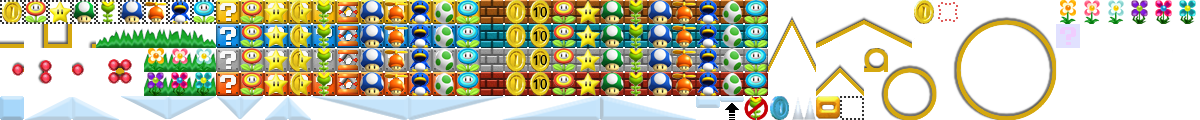
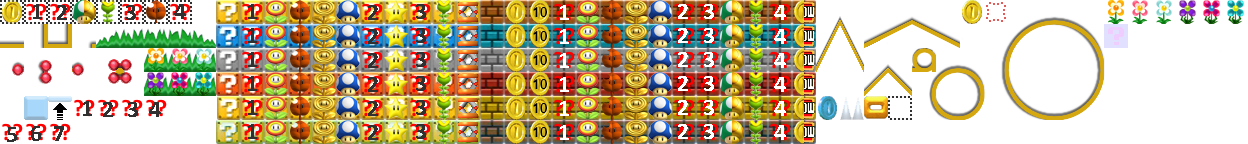
Overrides, Bug Fixes and Entrance Types
Fixed a paths-related bug.

Added proper overrides. There are still a lot of unknowns and there may
be some inaccuracies - let me know if you find anything!

As requested by Hiccup, entrances now support any type values you put in
entrancetypes.txt . They also now display the entrance type value in
Reggie (this may be removed later).

diff --git a/reggie.py b/reggie.py
@@ -891,8 +891,12 @@ def LoadEntranceNames(reload_=False):
         newNames = {}
         for line in getit.readlines(): newNames[int(line.split(':')[0])] = line.split(':')[1].replace('\n', '')
         for idx in newNames: NameList[idx] = newNames[idx]
+
     EntranceTypeNames = []
-    for idx in range(30): EntranceTypeNames.append(NameList[idx])
+    idx = 0
+    while idx in NameList:
+        EntranceTypeNames.append(trans.string('EntranceDataEditor', 28, '[id]', idx, '[name]', NameList[idx]))
+        idx += 1
 
 
 class ChooseLevelNameDialog(QtWidgets.QDialog):
@@ -2010,7 +2014,7 @@ def UnloadTileset(idx):
     """
     Unload the tileset from a specific slot
     """
-    for i in range(idx*441, idx*441+441):
+    for i in range(idx * 441, idx * 441 + 441):
         Tiles[i] = None
 
     ObjectDefinitions[idx] = None
@@ -2023,74 +2027,80 @@ def ProcessOverrides(idx, name):
     """
 
     try:
-        tsindexes = ['Pa0_jyotyu', 'Pa0_jyotyu_chika', 'Pa0_jyotyu_setsugen', 'Pa0_jyotyu_yougan', 'Pa0_jyotyu_staffRoll']
+        tsindexes = ['J_Kihon', 'J_Chika', 'J_Setsugen', 'J_Yougan', 'J_Gold', 'J_Suichu']
         if name in tsindexes:
-            offset = 1024 + tsindexes.index(name) * 64
+            offset = (441 * 4) + (tsindexes.index(name) * 64)
             # Setsugen/Snow is unused for some reason? but we still override it
-            # StaffRoll is the same as plain Jyotyu, so if it's used, let's be lazy and treat it as the normal one
-            if offset == 1280: offset = 1024
 
             defs = ObjectDefinitions[idx]
             t = Tiles
 
             # Invisible blocks
             # these are all the same so let's just load them from the first row
-            replace = 1024
-            for i in [3,4,5,6,7,8,9,10,13]:
+            replace = 441 * 4
+            for i in [3, 4, 5, 6, 7, 8, 9, 10]:
                 t[i].main = t[replace].main
                 replace += 1
 
             # Question and brick blocks
             # these don't have their own tiles so we have to do them by objects
             replace = offset + 9
-            for i in range(38, 49):
+            for i in range(30, 41):
                 defs[i].rows[0][0] = (0, replace, 0)
                 replace += 1
-            for i in range(26, 38):
+            for i in range(16, 30):
                 defs[i].rows[0][0] = (0, replace, 0)
                 replace += 1
 
             # now the extra stuff (invisible collisions etc)
-            t[1].main = t[1280].main # solid
-            t[2].main = t[1311].main # vine stopper
-            t[11].main = t[1310].main # jumpthrough platform
-            t[12].main = t[1309].main # 16x8 roof platform
+            replace = 441 * 4 + 64 * 4
+            for i in [0, 1, 11, 14, 2, 13, 12]:
+                t[i].main = t[replace].main
+                replace += 1
+            replace = 441 * 4 + 64 * 5
+            for i in [190, 191, 192]:
+                t[i].main = t[replace].main
+                replace += 1
+            # t[1].main = t[1280].main # solid
+            # t[2].main = t[1311].main # vine stopper
+            # t[11].main = t[1310].main # jumpthrough platform
+            # t[12].main = t[1309].main # 16x8 roof platform
 
-            t[16].main = t[1291].main # 1x1 slope going up
-            t[17].main = t[1292].main # 1x1 slope going down
-            t[18].main = t[1281].main # 2x1 slope going up (part 1)
-            t[19].main = t[1282].main # 2x1 slope going up (part 2)
-            t[20].main = t[1283].main # 2x1 slope going down (part 1)
-            t[21].main = t[1284].main # 2x1 slope going down (part 2)
-            t[22].main = t[1301].main # 4x1 slope going up (part 1)
-            t[23].main = t[1302].main # 4x1 slope going up (part 2)
-            t[24].main = t[1303].main # 4x1 slope going up (part 3)
-            t[25].main = t[1304].main # 4x1 slope going up (part 4)
-            t[26].main = t[1305].main # 4x1 slope going down (part 1)
-            t[27].main = t[1306].main # 4x1 slope going down (part 2)
-            t[28].main = t[1307].main # 4x1 slope going down (part 3)
-            t[29].main = t[1308].main # 4x1 slope going down (part 4)
-            t[30].main = t[1062].main # coin
+            # t[16].main = t[1291].main # 1x1 slope going up
+            # t[17].main = t[1292].main # 1x1 slope going down
+            # t[18].main = t[1281].main # 2x1 slope going up (part 1)
+            # t[19].main = t[1282].main # 2x1 slope going up (part 2)
+            # t[20].main = t[1283].main # 2x1 slope going down (part 1)
+            # t[21].main = t[1284].main # 2x1 slope going down (part 2)
+            # t[22].main = t[1301].main # 4x1 slope going up (part 1)
+            # t[23].main = t[1302].main # 4x1 slope going up (part 2)
+            # t[24].main = t[1303].main # 4x1 slope going up (part 3)
+            # t[25].main = t[1304].main # 4x1 slope going up (part 4)
+            # t[26].main = t[1305].main # 4x1 slope going down (part 1)
+            # t[27].main = t[1306].main # 4x1 slope going down (part 2)
+            # t[28].main = t[1307].main # 4x1 slope going down (part 3)
+            # t[29].main = t[1308].main # 4x1 slope going down (part 4)
+            # t[30].main = t[1062].main # coin
 
-            t[32].main = t[1289].main # 1x1 roof going down
-            t[33].main = t[1290].main # 1x1 roof going up
-            t[34].main = t[1285].main # 2x1 roof going down (part 1)
-            t[35].main = t[1286].main # 2x1 roof going down (part 2)
-            t[36].main = t[1287].main # 2x1 roof going up (part 1)
-            t[37].main = t[1288].main # 2x1 roof going up (part 2)
-            t[38].main = t[1293].main # 4x1 roof going down (part 1)
-            t[39].main = t[1294].main # 4x1 roof going down (part 2)
-            t[40].main = t[1295].main # 4x1 roof going down (part 3)
-            t[41].main = t[1296].main # 4x1 roof going down (part 4)
-            t[42].main = t[1297].main # 4x1 roof going up (part 1)
-            t[43].main = t[1298].main # 4x1 roof going up (part 2)
-            t[44].main = t[1299].main # 4x1 roof going up (part 3)
-            t[45].main = t[1300].main # 4x1 roof going up (part 4)
-            t[46].main = t[1312].main # P-switch coins
+            # t[32].main = t[1289].main # 1x1 roof going down
+            # t[33].main = t[1290].main # 1x1 roof going up
+            # t[34].main = t[1285].main # 2x1 roof going down (part 1)
+            # t[35].main = t[1286].main # 2x1 roof going down (part 2)
+            # t[36].main = t[1287].main # 2x1 roof going up (part 1)
+            # t[37].main = t[1288].main # 2x1 roof going up (part 2)
+            # t[38].main = t[1293].main # 4x1 roof going down (part 1)
+            # t[39].main = t[1294].main # 4x1 roof going down (part 2)
+            # t[40].main = t[1295].main # 4x1 roof going down (part 3)
+            # t[41].main = t[1296].main # 4x1 roof going down (part 4)
+            # t[42].main = t[1297].main # 4x1 roof going up (part 1)
+            # t[43].main = t[1298].main # 4x1 roof going up (part 2)
+            # t[44].main = t[1299].main # 4x1 roof going up (part 3)
+            # t[45].main = t[1300].main # 4x1 roof going up (part 4)
+            # t[46].main = t[1312].main # P-switch coins
 
-            t[53].main = t[1314].main # donut lift
-            t[61].main = t[1063].main # multiplayer coin
-            t[63].main = t[1313].main # instant death tile
+            # t[53].main = t[1314].main # donut lift
+            # t[61].main = t[1063].main # multiplayer coin
+            # t[63].main = t[1313].main # instant death tile
 
         elif name == 'Pa1_nohara' or name == 'Pa1_nohara2' or name == 'Pa1_daishizen':
             # flowers
@@ -2257,9 +2267,9 @@ def LoadOverrides():
     Load overrides
     """
     global Overrides
-    Overrides = [None]*320
 
     OverrideBitmap = QtGui.QPixmap('reggiedata/overrides.png')
+    Overrides = [None]*384
     idx = 0
     xcount = OverrideBitmap.width() // 24
     ycount = OverrideBitmap.height() // 24
@@ -3348,11 +3358,11 @@ class Area_NSMB2(AbstractParsedArea):
         nodecount = 0
         for path in self.pathdata:
             nodecount += len(path['nodes'])
-        nodebuffer = bytearray(nodecount * 16)
+        nodebuffer = bytearray(nodecount * 20)
         nodeoffset = 0
         nodeindex = 0
         offset = 0
-        buffer = bytearray(len(self.pathdata) * 8)
+        buffer = bytearray(len(self.pathdata) * 12)
         #[20:28:38]  [@Treeki] struct Path { unsigned char id; char padding; unsigned short startNodeIndex; unsigned short nodeCount; unsigned short unknown; };
         for path in self.pathdata:
             if(len(path['nodes']) < 1): continue
@@ -3360,10 +3370,10 @@ class Area_NSMB2(AbstractParsedArea):
 
             pathstruct.pack_into(buffer, offset, int(path['id']), int(nodeindex), int(len(path['nodes'])), 2 if path['loops'] else 0)
             offset += 8
-            nodeoffset += len(path['nodes']) * 16
+            nodeoffset += len(path['nodes']) * 20
             nodeindex += len(path['nodes'])
-        self.blocks[12] = bytes(buffer)
-        self.blocks[13] = bytes(nodebuffer)
+        self.blocks[13] = bytes(buffer)
+        self.blocks[14] = bytes(nodebuffer)
 
 
     def SavePathNodes(self, buffer, offst, nodes):
@@ -3375,8 +3385,8 @@ class Area_NSMB2(AbstractParsedArea):
         nodestruct = struct.Struct('<HHffhxx')
         for node in nodes:
             nodestruct.pack_into(buffer, offset, int(node['x']), int(node['y']), float(node['speed']), float(node['accel']), int(node['delay']))
-            offset += 16
-        return bytes(buffer)
+            offset += 20
+        return buffer
 
 
     def SaveSprites(self):
@@ -8966,6 +8976,7 @@ class ReggieTranslation():
                     'Left',
                     'Right',
                     ),
+                28: '([id]) [name]',
                 },
             'Entrances': {
                 0: '[b]Entrance [ent]:[/b][br]Type: [type][br][i][dest][/i]',
@@ -12644,7 +12655,7 @@ class DiagnosticToolDialog(QtWidgets.QDialog):
                 if IsRetail: continue
 
                 UnloadTileset(slot)
-                exec(name + ' = \'\' if slot != 0 else \'Pa0_jyotyu\'')
+                exec(name + ' = \'\' if slot != 0 else \'J_Kihon\'')
 
             self.ObjsInTileset('f') # remove all orphaned objects w/o a loaded tileset
 
